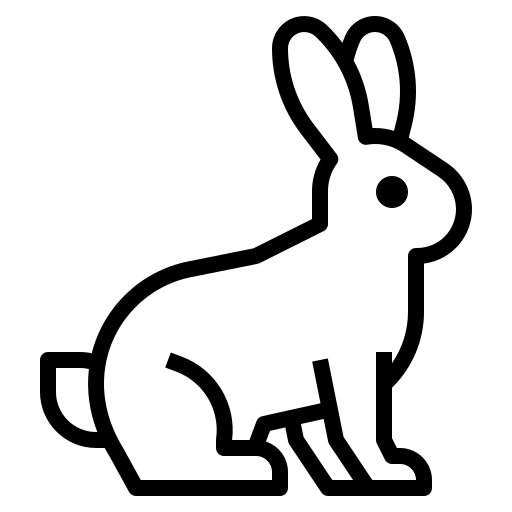
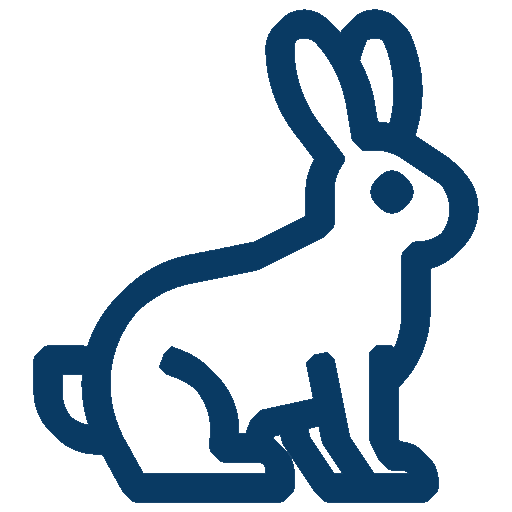
fix: ajust cor moonshot

Changed region(s): [[0.0625, 0.0, 0.9375, 1.0]]

diff --git a/src/components/CardKeyResult/cardKr.css b/src/components/CardKeyResult/cardKr.css
@@ -189,5 +189,5 @@
   align-items: center;
 }
 .kr__moonshot img {
-  width: 40%;
+  width: 50%;
 }
